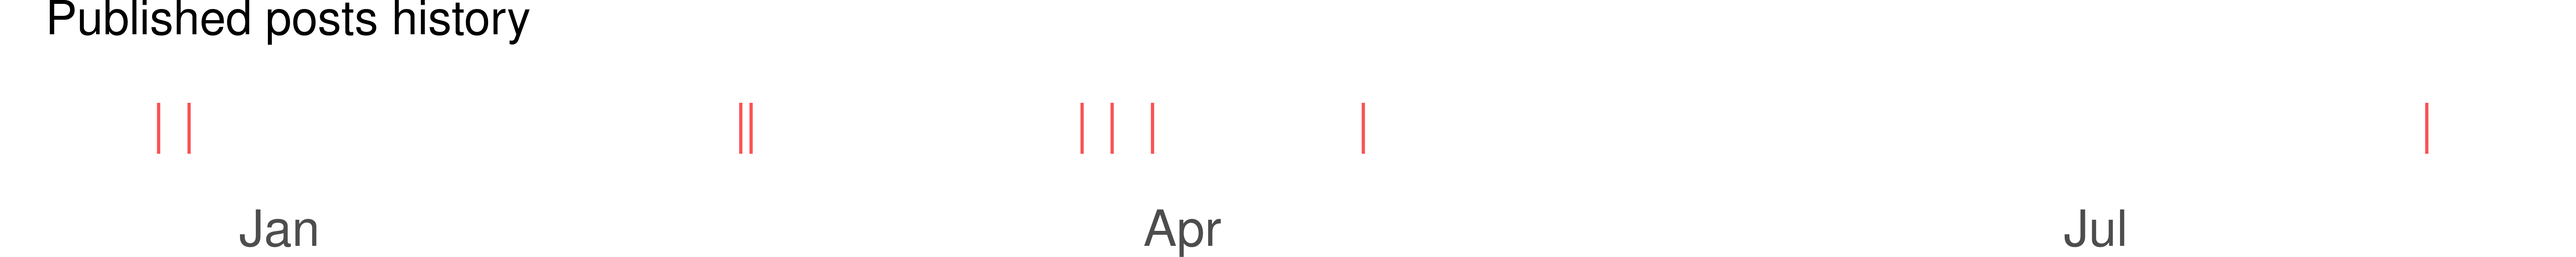
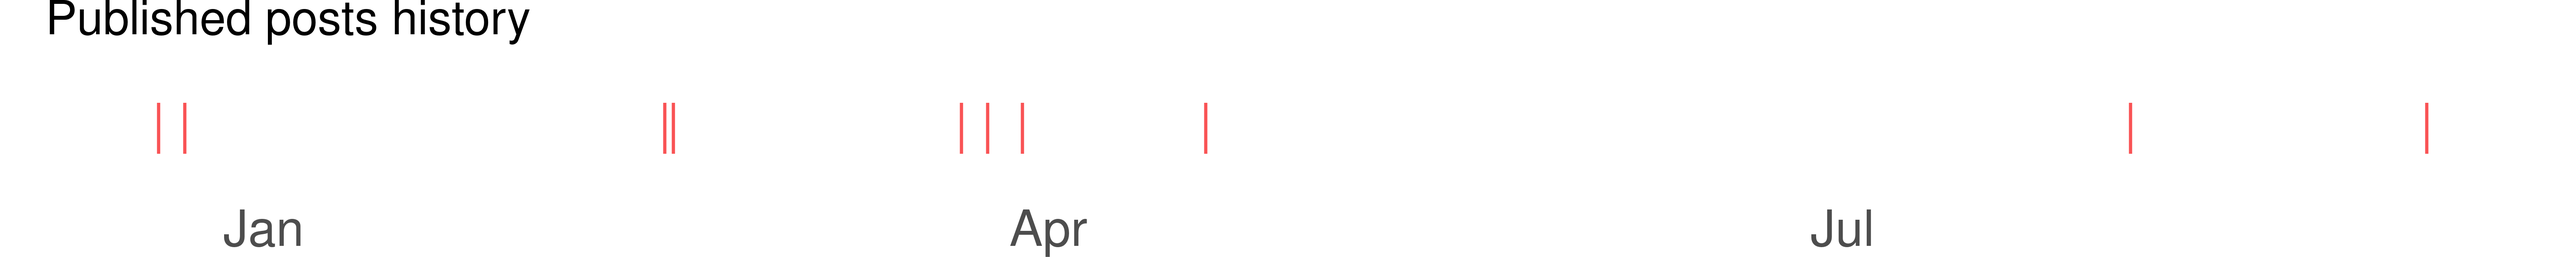
update

diff --git a/docs/contribute.html b/docs/contribute.html
@@ -2531,11 +2531,11 @@ instructions.</p>
 </div>
 <h4 id="some-stats">Some stats</h4>
 <ul>
-<li><p>RLIG’s blog has <strong>9</strong> posts since
+<li><p>RLIG’s blog has <strong>10</strong> posts since
 <strong>2021-12-20</strong>.</p></li>
-<li><p>The last post was published <strong>34</strong> days ago (<a
-href="https://recordlinkageig.github.io/posts/2022-08-03-rlig-breakfast-at-jsm">RLIG
-Breakfast at JSM on Thursday August 11!</a>).</p></li>
+<li><p>The last post was published <strong>0</strong> days ago (<a
+href="https://recordlinkageig.github.io/posts/2022-09-06-call-for-speakers">JSM
+2023: Call for Speakers for Record Linkage Session</a>).</p></li>
 </ul>
 <div class="layout-chunk" data-layout="l-body">
 <p><img src="contribute_files/figure-html5/plot-obj-1.png" width="3000" /></p>
@@ -2558,54 +2558,60 @@ Click to expand a full list of posts
 </thead>
 <tbody>
 <tr class="odd">
+<td style="text-align: left;">2022-09-06</td>
+<td style="text-align: left;"><a
+href="https://recordlinkageig.github.io/posts/2022-09-06-call-for-speakers">JSM
+2023: Call for Speakers for Record Linkage Session</a></td>
+</tr>
+<tr class="even">
 <td style="text-align: left;">2022-08-03</td>
 <td style="text-align: left;"><a
 href="https://recordlinkageig.github.io/posts/2022-08-03-rlig-breakfast-at-jsm">RLIG
 Breakfast at JSM on Thursday August 11!</a></td>
 </tr>
-<tr class="even">
+<tr class="odd">
 <td style="text-align: left;">2022-04-19</td>
 <td style="text-align: left;"><a
 href="https://recordlinkageig.github.io/posts/2022-04-19-linkage-seminar-series-thursday-april-21">📢
 Linkage Seminar Series - Thursday April 21</a></td>
 </tr>
-<tr class="odd">
+<tr class="even">
 <td style="text-align: left;">2022-03-29</td>
 <td style="text-align: left;"><a
 href="https://recordlinkageig.github.io/posts/2022-03-29-record-linkage-methodology-under-fellegi-sunter-paradigm-with-extensions">📢
 Record Linkage Methodology Under Fellegi-Sunter Paradigm, with
 Extensions - Thursday April 7</a></td>
 </tr>
-<tr class="even">
+<tr class="odd">
 <td style="text-align: left;">2022-03-25</td>
 <td style="text-align: left;"><a
 href="https://recordlinkageig.github.io/posts/2022-03-25-linkage-seminar-series-friday-april-1st">📢
 Linkage Seminar Series - Friday April 1st</a></td>
 </tr>
-<tr class="odd">
+<tr class="even">
 <td style="text-align: left;">2022-03-22</td>
 <td style="text-align: left;"><a
 href="https://recordlinkageig.github.io/posts/2022-03-22-bls-statistical-seminar-on-monday-march-28th">📢
 BLS Statistical Seminar on Monday, March 28th</a></td>
 </tr>
-<tr class="even">
+<tr class="odd">
 <td style="text-align: left;">2022-02-17</td>
 <td style="text-align: left;"><a
 href="https://recordlinkageig.github.io/posts/2022-02-17-deepparse">deepparse</a></td>
 </tr>
-<tr class="odd">
+<tr class="even">
 <td style="text-align: left;">2022-02-16</td>
 <td style="text-align: left;"><a
 href="https://recordlinkageig.github.io/posts/2022-02-16-youre-invited-linkage-seminar-series-thursday-february-24">📢
 Linkage Seminar Series - Thursday February 24</a></td>
 </tr>
-<tr class="even">
+<tr class="odd">
 <td style="text-align: left;">2021-12-23</td>
 <td style="text-align: left;"><a
 href="https://recordlinkageig.github.io/posts/2021-12-23-record-linkage-at-the-gpsg-community-pantry">Record
 Linkage at the Duke GPSG Community Pantry</a></td>
 </tr>
-<tr class="odd">
+<tr class="even">
 <td style="text-align: left;">2021-12-20</td>
 <td style="text-align: left;"><a
 href="https://recordlinkageig.github.io/posts/2021-12-20-welcome">Welcome!</a></td>
@@ -2707,7 +2713,7 @@ by its terms.</p>
 <h2 class="appendix" id="acknowledgements">Acknowledgements</h2>
 <p>This document uses code from <a
 href="https://github.com/shannonpileggi/pipinghotdata_distill">https://github.com/shannonpileggi/pipinghotdata_distill</a>.</p>
-<p><em>Updated 2022-09-06 20:29:38</em></p>
+<p><em>Updated 2022-09-06 20:36:44</em></p>
 <div class="sourceCode" id="cb6"><pre
 class="sourceCode r distill-force-highlighting-css"><code class="sourceCode r"></code></pre></div>
 <!--radix_placeholder_article_footer-->

diff --git a/_posts/2022-09-06-call-for-speakers/2022-09-06-call-for-speakers.html b/_posts/2022-09-06-call-for-speakers/2022-09-06-call-for-speakers.html
@@ -1523,8 +1523,8 @@ Association would like to submit an Invited Session proposal for JSM
 nature of your talk is not needed right now. Are you thinking about
 attending JSM 2023 in Toronto and would you be interested in giving a
 talk on the theme of “Record Linkage in Government Statistics”? Thursday
-is the due date for the proposal, so please respond ASAP if you are
-interested.</p>
+is the due date for the proposal, so please respond to <strong>mlarsen
+at smcvt.edu</strong> ASAP if you are interested.</p>
 <h3 id="session-information">Session Information</h3>
 <p><strong>Title:</strong> Record Linkage in Government Statistics</p>
 <p><strong>Keywords:</strong> Data fusion; De-duplication; Entity

diff --git a/docs/posts/2022-09-06-call-for-speakers/index.html b/docs/posts/2022-09-06-call-for-speakers/index.html
@@ -2549,8 +2549,8 @@ Association would like to submit an Invited Session proposal for JSM
 nature of your talk is not needed right now. Are you thinking about
 attending JSM 2023 in Toronto and would you be interested in giving a
 talk on the theme of “Record Linkage in Government Statistics”? Thursday
-is the due date for the proposal, so please respond ASAP if you are
-interested.</p>
+is the due date for the proposal, so please respond to <strong>mlarsen
+at smcvt.edu</strong> ASAP if you are interested.</p>
 <h3 id="session-information">Session Information</h3>
 <p><strong>Title:</strong> Record Linkage in Government Statistics</p>
 <p><strong>Keywords:</strong> Data fusion; De-duplication; Entity
